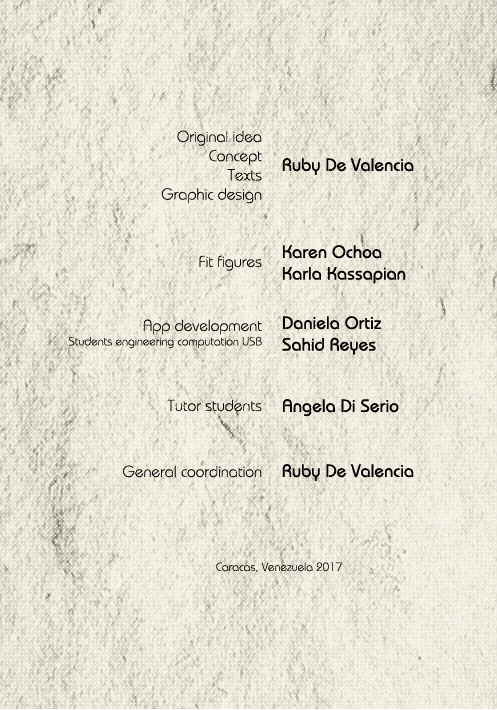
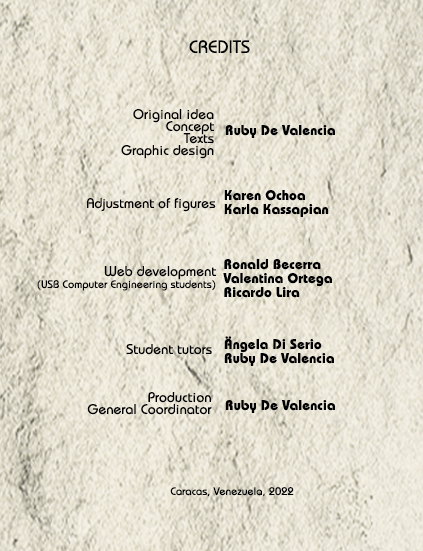
Agregadas nuevas imágenes

diff --git a/Rupestrarium/js/texts/manifestationsDefinitions.js b/Rupestrarium/js/texts/manifestationsDefinitions.js
@@ -4,13 +4,13 @@ const manifestationsDefinitions_texts = {
 		`Los <span style="color:red;font-style:italic">Petroglifos</span> son grabados de figuras en bajo relieve, en la superficie de algunas rocas. Realizados con diferentes técnicas de percusión directa o indirecta, abrasión y/o rayado. Su presencia implica, como implicaba en épocas pasadas, territorialidad. Las señales eran reconocidas por los miembros de una misma comunidad étnica, e identificadas como signos territoriales por miembros de otras comunidades, que las temían y respetaban.`, // 0
 		`Los significados de las imágenes de los <span style="color:red;font-style:italic">Petroglifos</span>, conocidos por nosotros solo en unos casos, definían su función, que es muy variable. En algunos grupos amazónicos venezolanos, la función sagrada de los <span style="color:red;font-style:italic">Petroglifos</span> está relacionada a la transmisión de preceptos religiosos vitales para la supervivencia de la comunidad; su función como objetos sagrados, conocida entre los ArawaKos, posiblemente es ampliable a otros grupos. En sitios de los estados Barinas, Carabobo y Amazonas, entre otros, parecen representar complejos de tipo ceremonial.`, // 1
 		`Las <span style="color:blue;font-style:italic">Pinturas Rupestres o Pictografías</span> son dibujos realizados sobre las rocas, mediante la aplicación de pigmentos. Se utilizaron en unos casos sustancias minerales, como almagre y óxidos de hierro, en otros sustancias vegetales -chica, (Arrabidea Chica) y caraña (Bursera Simaruba), de orígen animal: sangre, grasas, huevos, también carbón y arcillas. Aparecen realizadas en cuevas y abrigos, protegidas del clima y de la visibilidad fácil, en muchos casos han sido encontradas acompañadas de fardos mortuorios, posiblemente cumpliendo la función de símbolos protectores de los muertos.`, // 2
-		`Son la Manifestación Rupestre de manufactura prehispánica más extendida, llegando incluso a utilizarse hasta el presente, en las pinturas que acompañan los restos mortuorios de etnias indígenas contemporáneas, y en rituales de tradición espiritista y santera, que aparecen en grandes murales al aire libre. La mayor parte de las Pictografías en el mundo son de color rojo, pero también se han encontrado pintadas en negro, naranja, amarillo y blanco, entre otros. En Venezuela, en su mayoría fueron indicadores territoriales de los sitios de enterramientos de un grupo.`, // 3
+		`Las <span style="color:blue;font-style:italic">Pinturas Rupestres</span> son la manifestación rupestre de manufactura prehispánica más extendida, llegando incluso a utilizarse hasta el presente, acompañando los restos mortuorios de etnias indígenas contemporáneas, y en rituales de tradición espiritista y santera, que aparecen en grandes murales al aire libre. La mayor parte de las Pictografías en el mundo son de color rojo, pero también se han encontrado pintadas de negro, blanco y ocre, entre otros. En Venezuela, fueron indicadores territoriales de los sitios de enterramientos de un grupo.`, // 3
 	],
 
 	english: [
 		`The <span style="color:red;font-style:italic"> Petroglyphs</span> are engravings of figures in bas-relief, on the surface of some rocks. Performed with different techniques of direct percussion or indirect, abrasion and/or scratching. The presence of these signs engraved on stone implies territoriality. The signs are recognized by members of one ethnic community, and identified as territorial markers by members of other communities, who fear and respect them.`, // 0
 		`The meanings of the images in the<span style="color:red;font-style:italic"> Petroglyphs</span>, however, did vary. These are known to us in only a few cases and, in turn, defined their function. In some Venezuelan groups, the sacred function of the <span style="color:red;font-style:italic"> Petroglyphs</span> is related to the transmission of rules, vital for the survival of the community. Its function as sacred objects, known among the ArawaK, is possibly expandable to other groups. In areas of the states Barinas, Carabobo and Amazonas, among others, they seem to represent ceremonial centres.`, // 1
 		`The <span style="color:blue;font-style:italic">Rock Paintings or Pictographs</span> are drawings made on rocks by means of the application of pigments. They were used in mineral substances such as oxides of iron, substances of animal origin, such as blood and fats, also coal and clays. they appear in caves and coats, protected from climate and visibility, since in many cases these were found accompanied by funeral bundles and they possibly functioned as protective symbols for the dead.`, // 2
-		`Although <span style="color:blue;font-style:italic">Rock Paintings</span> are prehispanic in origin, they seem to cover a greater time span than Petroglyphs and have even been used in quite recent times in paintings that accompany the mortuary remains of contemporary indigenous groups, and spiritualistic rituals and Santeria tradition, which appear in large outdoor murals. Most of the Pictographs in the world are red, but also found painted in black, orange, yellow and white, among others. In Venezuela, the majority of Rock Paintings were territorial markers at a tribe’s sacred burial sites.`, // 3
+		`The <span style="color:blue;font-style:italic">Rock Paintings</span> are the most widespread rock manifestation of prehispanic manufacture, even used up to the present, accompanying the mortuary remains of contemporary indigenous ethnic groups, and in rituals of spiritualist and santera tradition, which appear in large outdoor murals. Most of the Pictographs in the world are red, but they have also been found painted in black, white and ocher, among others. In Venezuela, they were territorial indicators of the burial sites of a group.`, // 3
 	],
 };

diff --git a/Rupestrarium/js/texts/quizQuestions.js b/Rupestrarium/js/texts/quizQuestions.js
@@ -2,7 +2,7 @@
 const quiz_questions = {
 	spanish: [
 		{ // 0
-			question: "1- Las Manifestaciones Rupestres son importantes porque: _____________",
+			question: "1- Las Manifestaciones Rupestres son importantes, porque: _____________",
 			options: [ 
 				"Son obras artísticas", // 0
 				"Es posible trasladarlas de un sitio a otro", // 1
@@ -23,9 +23,9 @@ const quiz_questions = {
 			question: "3- ¿En cuáles de estas manifestaciones encontramos gráficos o dibujos, pintados o grabados?",
 			options: [
 				"Cerros Míticos Naturales", // 0
-				"Pinturas Rupestres, Pictografías o Micropetroglifos", // 1
+				"Pinturas Rupestres o Pictografías", // 1
 				"Puntos Acoplados", // 2
-				"Solo Micropetroglifos", // 3
+				"Micropetroglifos", // 3
 			],
 		},
 		{ // 3
@@ -88,12 +88,12 @@ const quiz_questions = {
 	],
 	english: [
 		{ // 0
-			question: "1- The Rock Art expressions are important because: _________________",
+			question: "1- The Rock Art manifestations are important, because: _________________",
 			options: [
 				"They are artistic works", // 0
 				"It is possible to transfer them from one site to another", // 1
-				"They are the oldest attempt of human communication", // 2
-				"They are located only in Africa", // 3
+				"Are the oldest attempt of human communication", // 2
+				"Are located only in Africa", // 3
 			],
 		},
 		{ // 1
@@ -106,7 +106,7 @@ const quiz_questions = {
 			],					
 		},
 		{ // 2
-			question: "3- In which of these Expressions do we find graphics or drawings, painted or engraved?",
+			question: "3- In which of these manifestations do we find graphics or drawings, painted or engraved?",
 			options: [
 				"Mythical Natural Hills", // 0
 				"Rock Art Paintings or Pictograms", // 1

diff --git a/Rupestrarium/js/global.js b/Rupestrarium/js/global.js
@@ -69,27 +69,27 @@ const possible_figures = [petroglyph1, petroglyph2, rockPainting1, rockPainting2
 const imagesThatVaryWithLanguage = {
 	spanish: {
 		presentation: "img/text/presentacion_es.png",
-		intro: "img/text/intro_es.png",
+		intro: "img/text/introduccion_es.png",
 		instructions: {
-			web: "img/text/instrucciones_web_es.png",
+			web: "img/text/instrucciones_web.png", // CAMBIAR
 			narrow: "img/text/instrucciones_mob_es.png",
 		},
 		credits: {
 			web: "img/text/creditos_web_es.png",
-			narrow: "img/text/creditos_mob.png",
+			narrow: "img/text/creditos_mob_es.png",
 		},
 		contact: "img/text/contacto.png",
 	},
 	english: {
 		presentation: "img/text/presentacion_en.png",
-		intro: "img/text/intro_en.png",
+		intro: "img/text/introduccion_en.png",
 		instructions: {
-			web: "img/text/instrucciones_web_es.png", // CAMBIAR
+			web: "img/text/instrucciones_web.png", // CAMBIAR
 			narrow: "img/text/instrucciones_mob_en.png",
 		},
 		credits: {
 			web: "img/text/creditos_web_en.png",
-			narrow: "img/text/creditos_mob.png",
+			narrow: "img/text/creditos_mob_en.png",
 		},
 		contact: "img/text/contacto.png",
 	},

diff --git a/Rupestrarium/css/narrow.css b/Rupestrarium/css/narrow.css
@@ -108,48 +108,6 @@ main {
 	border-width: 3px;
 }
 
-/* ------------- FORMAT FOR BUTTONS THAT DISPLAY ON LATERAL MENUS ------------ */
-
-/*Buttons that display the different main views */
-.mainMenuButton{
-	background-size: cover;
-	width: 100%;
-	height: 6.5vh;
-	outline: none;
-	font-family: 'FontRupes'; 
-	font-size: 2vw;
-}
-
-/*Text of a lateral menu button*/
-.text_mb{
-	color: white;
-	font-weight: lighter;
-	font-size: 1.65vmax;
-}
-
-/*Subclass of mainMenuButton*/
-.darkRed_mb{
-	background-image: url('../img/button/button_darkred.png');
-}
-
-/*Subclass of mainMenuButton*/
-.red_mb{
-	background-image: url('../img/button/button_red.png');
-}
-
-/*Subclass of mainMenuButton*/
-.gray_mb{
-	background-image: url('../img/button/button_gray.png');
-}
-
-/*Subclass of mainMenuButton*/
-.orange_mb{
-	background-image: url('../img/button/button_orange.png');
-}
-
-/* ------------- END OF FORMAT FOR BUTTONS THAT DISPLAY ON LATERAL MENUS ------------ */
-
-
 /* Large texts of definitions of Petroglyphs and Rock Paintings */
 #definition{
 	width: 95%; 

diff --git a/Rupestrarium/css/wide.css b/Rupestrarium/css/wide.css
@@ -129,47 +129,12 @@ main {
 	border-width: 3.5px;
 }
 
-/* ------------- FORMAT FOR BUTTONS THAT DISPLAY ON LATERAL MENUS ------------ */
-
-/*Buttons that display the different main views */
-.mainMenuButton{
-	background-size: cover;
-	width: 100%;
-	height: 6.5vh;
-	outline: none;
-	font-family: 'FontRupes'; 
-	font-size: 2vw;
-}
-
 /*Text of a lateral menu button*/
 .text_mb{
 	color: white;
 	font-weight: lighter;
 	font-size: 1.65vmax;
 }
-
-/*Subclass of mainMenuButton*/
-.darkRed_mb{
-	background-image: url('../img/button/button_darkred.png');
-}
-
-/*Subclass of mainMenuButton*/
-.red_mb{
-	background-image: url('../img/button/button_red.png');
-}
-
-/*Subclass of mainMenuButton*/
-.gray_mb{
-	background-image: url('../img/button/button_gray.png');
-}
-
-/*Subclass of mainMenuButton*/
-.orange_mb{
-	background-image: url('../img/button/button_orange.png');
-}
-
-/* ------------- END OF FORMAT FOR BUTTONS THAT DISPLAY ON LATERAL MENUS ------------ */
-
 
 /* Large texts of definitions of Petroglyphs and Rock Paintings */
 #definition{

diff --git a/Rupestrarium/css/medium.css b/Rupestrarium/css/medium.css
@@ -129,47 +129,12 @@ main {
 	border-width: 3px;
 }
 
-/* ------------- FORMAT FOR BUTTONS THAT DISPLAY ON LATERAL MENUS ------------ */
-
-/*Buttons that display the different main views */
-.mainMenuButton{
-	background-size: cover;
-	width: 100%;
-	height: 6.5vh;
-	outline: none;
-	font-family: 'FontRupes'; 
-	font-size: 2vw;
-}
-
 /*Text of a lateral menu button*/
 .text_mb{
 	color: white;
 	font-weight: lighter;
 	font-size: 2vmax;
 }
-
-/*Subclass of mainMenuButton*/
-.darkRed_mb{
-	background-image: url('../img/button/button_darkred.png');
-}
-
-/*Subclass of mainMenuButton*/
-.red_mb{
-	background-image: url('../img/button/button_red.png');
-}
-
-/*Subclass of mainMenuButton*/
-.gray_mb{
-	background-image: url('../img/button/button_gray.png');
-}
-
-/*Subclass of mainMenuButton*/
-.orange_mb{
-	background-image: url('../img/button/button_orange.png');
-}
-
-/* ------------- END OF FORMAT FOR BUTTONS THAT DISPLAY ON LATERAL MENUS ------------ */
-
 
 /* Large texts of definitions of Petroglyphs and Rock Paintings */
 #definition{

diff --git a/Rupestrarium/css/main.css b/Rupestrarium/css/main.css
@@ -28,6 +28,40 @@ body {
 	justify-content: flex-start;
 }
 
+/* ------------- FORMAT FOR BUTTONS THAT DISPLAY ON LATERAL MENUS ------------ */
+
+/*Buttons that display the different main views */
+.mainMenuButton{
+	background-size: cover;
+	width: 100%;
+	height: 6.5vh;
+	outline: none;
+	font-family: 'FontRupes'; 
+	font-size: 2vw;
+}
+
+/*Subclass of mainMenuButton*/
+.darkRed_mb{
+	background-image: url('../img/button/button_darkred.png');
+}
+
+/*Subclass of mainMenuButton*/
+.red_mb{
+	background-image: url('../img/button/button_red.png');
+}
+
+/*Subclass of mainMenuButton*/
+.gray_mb{
+	background-image: url('../img/button/button_gray.png');
+}
+
+/*Subclass of mainMenuButton*/
+.orange_mb{
+	background-image: url('../img/button/button_orange.png');
+}
+
+/* ------------- END OF FORMAT FOR BUTTONS THAT DISPLAY ON LATERAL MENUS ------------ */
+
 /* These two styles let the respective buttons change their respective colors when the mouse
    is located over them */ 
 #finishButton:hover, #sendEmailButton:hover{

diff --git a/Rupestrarium/js/functions/emailFunctions.js b/Rupestrarium/js/functions/emailFunctions.js
@@ -24,7 +24,7 @@ function sendEmailView({username_val="", userdni_val="", studentcard_val="", tea
 	// Auxiliar sub-function
 	let poblateDiv = (id, textNumber) => {
 		document.getElementById(id).innerHTML = divInit +
-			`<label for="` + id + `_input">` + sendEmail_texts[language][textNumber] + `</label>
+			`<label for="` + id + `_input" style="font-family:'FontRupes'">` + sendEmail_texts[language][textNumber] + `</label>
 			 <input type="text" id="` + id + `_input" name="` + id + `_input" value="` + dict[id+"_val"] + `">` 
 		+ `</div>`;	
 	}
